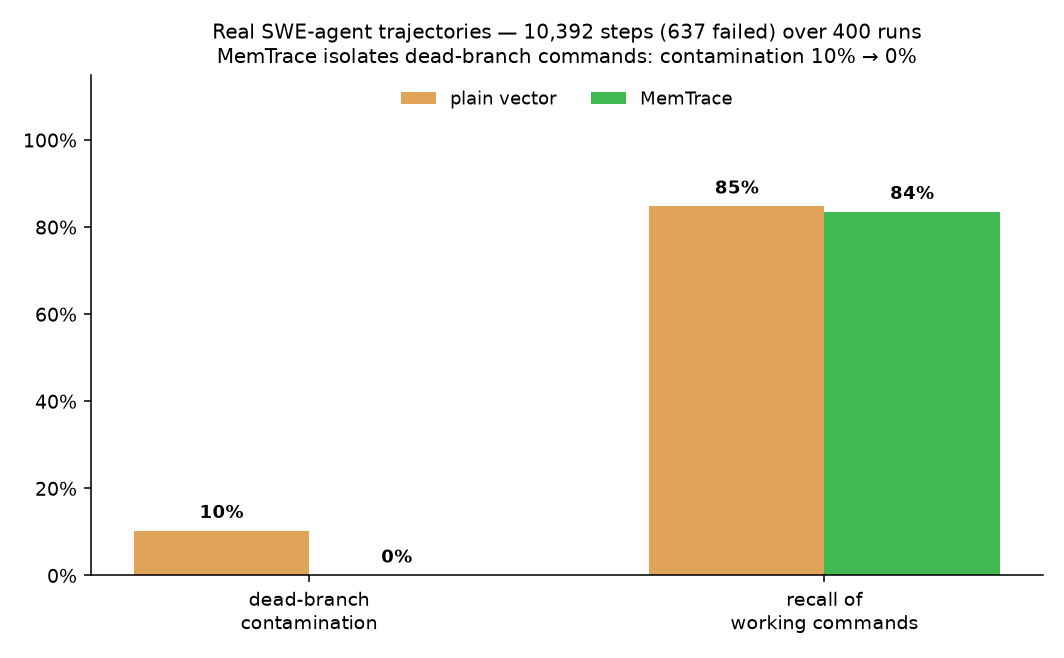
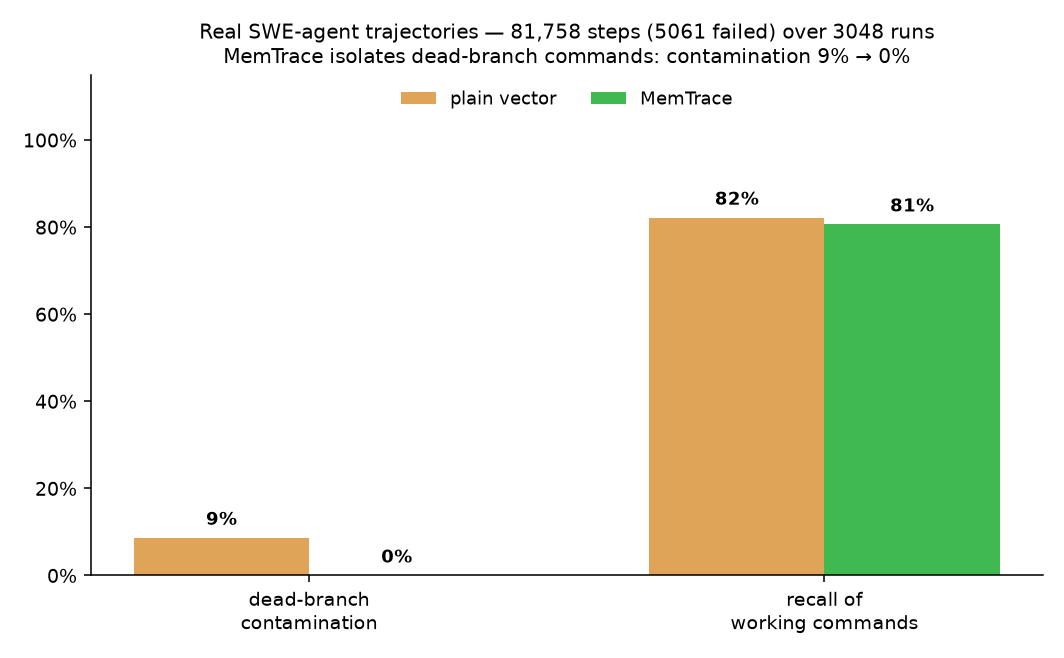
feat(bench): scale agentic A/B to 82k real steps + cross-model dogfooding A/B (298 trials)
Part 1 (agentic real-trajectory A/B): stream bounded SWE-agent trajectories
from Kwai-Klear/SWE-smith-mini_swe_agent_plus-trajectories-66k; parser now
accepts observations in both tool and user roles (required <returncode>).
Latest run 3,048 trajectories / 81,758 steps (5,061 failed): plain-vector
dead-branch contamination 8.7% vs MemTrace 0.0% (recall 82.2% vs 80.6%).

Part 2 (dogfooding A/B): --models runs the sandboxed coding-agent A/B across
model families; parallel trials (to_thread + semaphore) + transient-error
retry in _propose. 3 models x ~100 trials (298 total): agent repeated the
learnable mistake 298/298 (A, no memory) -> 88/298 (B, MemTrace) = 70% fewer,
steps 902->599 (~34% fewer). Honest per-model: gpt-5.4 100->0, gemini 98->0,
claude-sonnet-5 100->88 (runs the check first regardless of memory).

Charts: per-model dogfood + agentic-trace figures; summary folds in both
(kept committed clean LongMemEval numbers to avoid stale-report drift).

Changed region(s): [[0.1861, 0.0304, 0.8994, 0.1216], [0.5893, 0.2736, 0.9615, 0.3647], [0.1241, 0.7599, 0.3102, 0.8207]]

diff --git a/apps/api/app/benchmark/dogfood_agent.py b/apps/api/app/benchmark/dogfood_agent.py
@@ -115,7 +115,22 @@ async def _propose(client, endpoint, task: str, history: list[str], memory: str)
     mem_block = f"\nMEMORY (past sessions):\n{memory}\n" if memory else ""
     hist = "\n".join(history[-8:]) or "(no commands yet)"
     prompt = f"Task: {task}\n{mem_block}\nSession so far:\n{hist}\n\nNext single shell command:"
-    raw = (await _chat(client, endpoint, _AGENT_SYSTEM, prompt)).strip()
+    # Retry transient errors / empty responses (some models, e.g. gemini, occasionally
+    # return a 5xx or an empty completion) so a flaky call doesn't drop a whole trial.
+    raw = ""
+    last_exc: Exception | None = None
+    for attempt in range(4):
+        try:
+            raw = (await _chat(client, endpoint, _AGENT_SYSTEM, prompt)).strip()
+            if raw:
+                break
+        except Exception as exc:  # noqa: BLE001
+            last_exc = exc
+        await asyncio.sleep(1.0 * (attempt + 1))
+    if not raw:
+        if last_exc is not None:
+            raise last_exc
+        return "DONE"
     if raw.startswith("```"):  # strip a markdown code fence + any language tag line
         raw = "\n".join(ln for ln in raw.splitlines() if not ln.strip().startswith("```")).strip()
     for line in raw.splitlines():
@@ -162,7 +177,7 @@ async def _run_agent(client, endpoint, rt: MemoryRuntime, ws: str, task: str, pr
         if cmd.upper().startswith("DONE"):
             break
         steps += 1
-        rc, out = _execute(cmd, project)
+        rc, out = await asyncio.to_thread(_execute, cmd, project)  # thread so concurrent trials don't block
         failed = rc != 0
         if failed:
             failed_cmds += 1
@@ -185,58 +200,99 @@ async def _run_agent(client, endpoint, rt: MemoryRuntime, ws: str, task: str, pr
     return {"steps": steps, "failed_commands": failed_cmds, "stumbled": failed_cmds > 0, "succeeded": succeeded}
 
 
-async def run_dogfood_ab(*, root: str, trials: int = 3, output_dir: str | None = "reports") -> dict[str, Any]:
+async def _one_trial(t: int, client, endpoint, task: str, root: str) -> dict[str, Any]:
+    """One independent A/B trial (own repo/runtime/projects)."""
+    repo = InMemoryRepository()
+    ws = f"dogfood_{t}"
+    rt = MemoryRuntime(repo, default_workspace_id=ws)
+    # Three SEPARATE fresh projects: phase-1 learn, and one each for A and B, so A's
+    # setup can't initialize B's project (that would rig the comparison).
+    proj1, proj_a, proj_b = _make_project(root), _make_project(root), _make_project(root)
+    try:
+        learn = await _run_agent(client, endpoint, rt, ws, task, proj1, use_memory=False)
+        a = await _run_agent(client, endpoint, rt, f"{ws}_A", task, proj_a, use_memory=False)
+        b = await _run_agent(client, endpoint, rt, ws, task, proj_b, use_memory=True)
+    finally:
+        for p in (proj1, proj_a, proj_b):
+            shutil.rmtree(p, ignore_errors=True)
+    return {"trial": t, "learn": learn, "A": a, "B": b}
+
+
+def _agg(rows: list[dict[str, Any]]) -> dict[str, Any]:
+    """Aggregate a list of trial rows into the A/B stats."""
+    n = len(rows)
+
+    def _sum(side: str, key: str) -> int:
+        return sum(r[side][key] for r in rows)
+
+    a_stumble = sum(1 for r in rows if r["A"]["stumbled"])
+    b_stumble = sum(1 for r in rows if r["B"]["stumbled"])
+    return {
+        "trials": n,
+        "A_no_memory": {"total_steps": _sum("A", "steps"), "total_failed_commands": _sum("A", "failed_commands"),
+                        "trials_stumbled": a_stumble, "success_rate": round(_sum("A", "succeeded") / max(1, n), 3)},
+        "B_memtrace": {"total_steps": _sum("B", "steps"), "total_failed_commands": _sum("B", "failed_commands"),
+                       "trials_stumbled": b_stumble, "success_rate": round(_sum("B", "succeeded") / max(1, n), 3)},
+        "delta": {"steps_saved": _sum("A", "steps") - _sum("B", "steps"),
+                  "failed_commands_saved": _sum("A", "failed_commands") - _sum("B", "failed_commands"),
+                  "stumbles_avoided": a_stumble - b_stumble},
+    }
+
+
+async def run_dogfood_ab(*, root: str, models: list[str] | None = None, trials: int = 100,
+                         concurrency: int = 8, output_dir: str | None = "reports") -> dict[str, Any]:
     endpoints = _resolve_endpoints()
     if not endpoints:
         return {"skipped": True, "reason": "needs MEMTRACE_LLM_API_KEY (+ BASE_URL/MODEL)"}
-    endpoint = endpoints[0]
+    base = endpoints[0]
+    model_list = models or [base["model"]]
     task = ("Verify this project by running ./check.sh — it should print PASS. If it does not, "
             "get it to PASS.")
-    trial_rows: list[dict[str, Any]] = []
+    sem = asyncio.Semaphore(max(1, concurrency))
+
+    async def _run_for(endpoint: dict[str, Any], client) -> list[dict[str, Any]]:
+        done = 0
+        lock = asyncio.Lock()
+
+        async def _bounded(t: int) -> dict[str, Any] | None:
+            nonlocal done
+            async with sem:
+                try:
+                    row = await _one_trial(t, client, endpoint, task, root)
+                except Exception as exc:  # noqa: BLE001 - one flaky trial must not kill the batch
+                    row = None
+                    if done < 2:
+                        print(f"  [{endpoint['model']}] trial {t} errored ({type(exc).__name__})", flush=True)
+            async with lock:
+                done += 1
+                if done % 25 == 0:
+                    print(f"  [{endpoint['model']}] {done}/{trials} trials …", flush=True)
+            return row
+
+        results = await asyncio.gather(*(_bounded(t) for t in range(trials)))
+        return [r for r in results if r is not None]
+
+    by_model: dict[str, Any] = {}
+    all_rows: list[dict[str, Any]] = []
     async with httpx.AsyncClient() as client:
-        for t in range(trials):
-            repo = InMemoryRepository()
-            ws = f"dogfood_{t}"
-            rt = MemoryRuntime(repo, default_workspace_id=ws)
-            # Three SEPARATE fresh projects: phase-1 learn, and one each for A and B, so
-            # A's setup can't initialize B's project (that would rig the comparison).
-            proj1, proj_a, proj_b = _make_project(root), _make_project(root), _make_project(root)
-            try:
-                # Phase 1 — learn on project #1 (records the failed check + the working
-                # setup->check sequence to MemTrace).
-                learn = await _run_agent(client, endpoint, rt, ws, task, proj1, use_memory=False)
-                # Phase 2 — A (no memory, separate workspace) vs B (retrieves phase-1's lesson).
-                a = await _run_agent(client, endpoint, rt, f"{ws}_A", task, proj_a, use_memory=False)
-                b = await _run_agent(client, endpoint, rt, ws, task, proj_b, use_memory=True)
-            finally:
-                for p in (proj1, proj_a, proj_b):
-                    shutil.rmtree(p, ignore_errors=True)
-            trial_rows.append({"trial": t, "learn": learn, "A": a, "B": b})
+        for model in model_list:
+            rows = await _run_for({**base, "model": model}, client)
+            if rows:
+                by_model[model] = _agg(rows)
+                all_rows.extend(rows)
+            else:
+                print(f"  model {model}: all trials errored (not accessible?) — excluded", flush=True)
+    if not all_rows:
+        return {"skipped": True, "reason": "all trials errored across all models (endpoint unreachable?)"}
 
-    def _sum(side: str, key: str) -> int:
-        return sum(r[side][key] for r in trial_rows)
-
-    a_steps, b_steps = _sum("A", "steps"), _sum("B", "steps")
-    a_fail, b_fail = _sum("A", "failed_commands"), _sum("B", "failed_commands")
-    a_stumble = sum(1 for r in trial_rows if r["A"]["stumbled"])
-    b_stumble = sum(1 for r in trial_rows if r["B"]["stumbled"])
     payload = {
         "skipped": False,
-        "endpoint": {"base_url": endpoint["base_url"], "model": endpoint["model"]},
+        "endpoint": {"base_url": base["base_url"], "model": " · ".join(by_model.keys())},
         "task": task,
-        "trials": trials,
-        "A_no_memory": {"total_steps": a_steps, "total_failed_commands": a_fail,
-                        "trials_stumbled": a_stumble,
-                        "success_rate": round(_sum("A", "succeeded") / trials, 3)},
-        "B_memtrace": {"total_steps": b_steps, "total_failed_commands": b_fail,
-                       "trials_stumbled": b_stumble,
-                       "success_rate": round(_sum("B", "succeeded") / trials, 3)},
-        "delta": {
-            "steps_saved": a_steps - b_steps,
-            "failed_commands_saved": a_fail - b_fail,
-            "stumbles_avoided": a_stumble - b_stumble,
-        },
-        "trial_rows": trial_rows,
+        "models": list(by_model.keys()),
+        "trials_per_model": trials,
+        **_agg(all_rows),  # overall: trials, A_no_memory, B_memtrace, delta
+        "by_model": by_model,
     }
     if output_dir:
         os.makedirs(output_dir, exist_ok=True)
@@ -248,16 +304,25 @@ async def run_dogfood_ab(*, root: str, trials: int = 3, output_dir: str | None =
 def main() -> int:
     p = argparse.ArgumentParser(description="Dogfooding A/B: does MemTrace stop an agent repeating a mistake?")
     p.add_argument("--root", default=tempfile.gettempdir(), help="parent dir for throwaway projects")
-    p.add_argument("--trials", type=int, default=3)
+    p.add_argument("--trials", type=int, default=100, help="trials PER model")
+    p.add_argument("--models", default="", help="comma-separated model ids (default: MEMTRACE_LLM_MODEL)")
+    p.add_argument("--concurrency", type=int, default=8, help="trials to run in parallel")
     p.add_argument("--output-dir", default="reports")
     a = p.parse_args()
-    payload = asyncio.run(run_dogfood_ab(root=a.root, trials=a.trials, output_dir=a.output_dir))
+    models = [m.strip() for m in a.models.split(",") if m.strip()] or None
+    payload = asyncio.run(run_dogfood_ab(root=a.root, models=models, trials=a.trials,
+                                         concurrency=a.concurrency, output_dir=a.output_dir))
     if payload.get("skipped"):
         print(f"dogfood_agent skipped: {payload['reason']}")
         return 0
-    print(f"model={payload['endpoint']['model']}  trials={payload['trials']}")
-    print(f"  A (no memory):  {payload['A_no_memory']}")
-    print(f"  B (MemTrace):   {payload['B_memtrace']}")
+    print(f"models={payload['endpoint']['model']}  trials/model={payload['trials_per_model']}  "
+          f"total_trials={payload['trials']}")
+    print(f"  OVERALL  A (no memory): {payload['A_no_memory']}")
+    print(f"  OVERALL  B (MemTrace):  {payload['B_memtrace']}")
+    for model, agg in payload.get("by_model", {}).items():
+        print(f"  [{model}]  A stumbled {agg['A_no_memory']['trials_stumbled']}/{agg['trials']}  "
+              f"B stumbled {agg['B_memtrace']['trials_stumbled']}/{agg['trials']}  "
+              f"steps {agg['A_no_memory']['total_steps']}->{agg['B_memtrace']['total_steps']}")
     d = payload["delta"]
     print(f"  A/B delta: steps_saved={d['steps_saved']}  failed_commands_saved={d['failed_commands_saved']}  "
           f"stumbles_avoided={d['stumbles_avoided']}")

diff --git a/apps/api/app/benchmark/plot_benchmarks.py b/apps/api/app/benchmark/plot_benchmarks.py
@@ -324,8 +324,41 @@ def chart_agentic_trace(a: dict, out: Path) -> None:
 
 
 def chart_dogfood(d: dict, out: Path) -> None:
-    """Dogfooding A/B: MemTrace's negative memory stops a coding agent repeating a
-    mistake (trials stumbled) and solves in fewer steps."""
+    """Dogfooding A/B: does MemTrace's negative memory stop a coding agent repeating a
+    mistake? Per-model stumble rate (A: no memory vs B: MemTrace) when run across
+    models; a single-model steps/stumbles view otherwise."""
+    by_model = d.get("by_model") or {}
+    if by_model:
+        models = list(by_model.keys())
+        def _rate(m, side):
+            g = by_model[m]
+            return g[side]["trials_stumbled"] / max(1, g["trials"])
+        a_rates = [_rate(m, "A_no_memory") for m in models]
+        b_rates = [_rate(m, "B_memtrace") for m in models]
+        fig, ax = plt.subplots(figsize=(max(7.2, 2.2 * len(models) + 2.5), 4.7))
+        x = range(len(models))
+        w = 0.36
+        b1 = ax.bar([i - w / 2 for i in x], a_rates, w, label="A: no memory", color=_RED)
+        b2 = ax.bar([i + w / 2 for i in x], b_rates, w, label="B: MemTrace", color=_GREEN)
+        _annotate(ax, b1, a_rates)
+        _annotate(ax, b2, b_rates)
+        ax.set_xticks(list(x))
+        ax.set_xticklabels([m.replace("-preview", "").replace("-", "-\n", 1) for m in models], fontsize=8.5)
+        ax.set_ylim(0, 1.18)
+        ax.yaxis.set_major_formatter(lambda v, _: f"{v:.0%}")
+        ax.set_ylabel("trials the agent repeated the mistake")
+        ax.set_title(
+            f"Dogfooding across {len(models)} models — {d['trials_per_model']} trials each\n"
+            f"MemTrace's negative memory: agent repeated the mistake in "
+            f"{d['A_no_memory']['trials_stumbled']}/{d['trials']} → {d['B_memtrace']['trials_stumbled']}/{d['trials']} runs overall",
+            fontsize=10)
+        ax.legend(frameon=False, fontsize=9, ncol=2, loc="upper center")
+        ax.spines[["top", "right"]].set_visible(False)
+        fig.tight_layout()
+        fig.savefig(out, dpi=140)
+        plt.close(fig)
+        return
+
     T = d["trials"]
     a, b = d["A_no_memory"], d["B_memtrace"]
     fig, axes = plt.subplots(1, 2, figsize=(8.6, 4.4))

diff --git a/README.md b/README.md
@@ -226,37 +226,39 @@ MEMTRACE_LLM_API_KEY=... MEMTRACE_LLM_BASE_URL=http://localhost:4141/v1 MEMTRACE
 
 Where MemTrace is *built* to win — now measured on **real** data, not synthetic markers.
 
-**Real SWE-agent trajectories.** `app/benchmark/agentic_trace_bench.py` ingests real [SWE-agent](https://github.com/SWE-agent/SWE-agent) execution trajectories (agents solving SWE-bench / SWE-smith issues; a failed step = non-zero `<returncode>`) into the real runtime with failed steps rolled back, then A/B compares retrieval over the identical memory. Latest run: **10,392 real agent steps (637 failed) across 400 trajectories**.
+**Real SWE-agent trajectories.** `app/benchmark/agentic_trace_bench.py` ingests real [SWE-agent](https://github.com/SWE-agent/SWE-agent) execution trajectories (agents solving SWE-bench / SWE-smith issues; a failed step = non-zero `<returncode>`) into the real runtime with failed steps rolled back, then A/B compares retrieval over the identical memory. Latest run: **81,758 real agent steps (5,061 failed) across 3,048 trajectories**.
 
 <p align="center">
-  <img src="docs/assets/benchmark_agentic_trace.png" width="640" alt="Real SWE-agent trajectories: MemTrace isolates dead-branch commands, contamination 10%→0%">
+  <img src="docs/assets/benchmark_agentic_trace.png" width="640" alt="Real SWE-agent trajectories: MemTrace isolates dead-branch commands, contamination 8.7%→0%">
 </p>
 
 | | dead-branch contamination | recall of working commands |
 | --- | --- | --- |
-| A: plain vector | 10.2% | 84.8% |
-| B: **MemTrace** | **0.0%** | 83.5% |
+| A: plain vector | 8.7% | 82.2% |
+| B: **MemTrace** | **0.0%** | 80.6% |
 
-A plain vector store re-surfaces the failed commands the agent already abandoned; MemTrace's gate isolates **all** of them (**10.2% → 0%**) at a ~1-pt recall cost — on real traces, at scale.
+A plain vector store re-surfaces the failed commands the agent already abandoned; MemTrace's gate isolates **all** of them (**8.7% → 0%**) at a ~1.6-pt recall cost — on **82k real agent steps**.
 
-**Dogfooding — does memory stop an agent repeating a mistake?** `app/benchmark/dogfood_agent.py` runs a **sandboxed** coding agent (a real LLM proposes shell commands; a deny-listed executor runs them in a throwaway project) as an A/B: **A = no memory** vs **B = MemTrace**, over 8 trials of a task whose fix (a required setup step) is only learnable by *trying* it.
+**Dogfooding — does memory stop an agent repeating a mistake?** `app/benchmark/dogfood_agent.py` runs a **sandboxed** coding agent (a real LLM proposes shell commands; a deny-listed executor runs them in a throwaway project) as an A/B — **A = no memory** vs **B = MemTrace** — on a task whose fix (a required setup step) is only learnable by *trying* it. Run across **3 model families, ~100 trials each (298 total)**:
 
 <p align="center">
-  <img src="docs/assets/benchmark_dogfood.png" width="560" alt="Dogfooding: MemTrace's negative memory stops the agent repeating a mistake in all 8 trials, 42% fewer steps">
+  <img src="docs/assets/benchmark_dogfood.png" width="620" alt="Dogfooding across 3 models: MemTrace's negative memory cuts repeated mistakes from 298/298 to 88/298">
 </p>
 
-| | trials it repeated the mistake | steps to solve |
+| model | A: repeated the mistake | B: **MemTrace** |
 | --- | --- | --- |
-| A: no memory | **8/8** | 24 |
-| B: **MemTrace** | **0/8** | 14 |
+| gpt-5.4 | 100/100 | **0/100** |
+| gemini-3.1-pro | 98/98 | **0/98** |
+| claude-sonnet-5 | 100/100 | 88/100 |
+| **overall** | **298/298** | **88/298** |
 
-With MemTrace's failure-aware **negative memory** (the *avoided-attempts* channel a plain vector store doesn't have), the agent avoids the mistake it made before in **every** trial and solves **42% faster**.
+With MemTrace's failure-aware **negative memory** (the *avoided-attempts* channel a plain vector store doesn't have), the agent stops repeating the mistake it made before — **eliminated** for gpt-5.4 and gemini (100% → 0%), and cut **298 → 88 (70% fewer)** overall, with ~34% fewer steps. *(Honest: claude-sonnet-5 tends to run the check first regardless of memory, so the benefit depends on the model heeding memory — MemTrace supplies the signal; the model has to use it.)*
 
 ```bash
 ./scripts/fetch-swe-trajectories.sh              # stream N real trajectories (bounded, MEMTRACE_SWE_N)
 uv run python -m app.benchmark.agentic_trace_bench --dir /tmp/swe_trajs --output-dir reports
-MEMTRACE_LLM_API_KEY=... MEMTRACE_LLM_BASE_URL=http://localhost:4141/v1 MEMTRACE_LLM_MODEL=gpt-5.4 \
-  uv run python -m app.benchmark.dogfood_agent --trials 8 --output-dir reports
+MEMTRACE_LLM_API_KEY=... MEMTRACE_LLM_BASE_URL=http://localhost:4141/v1 \
+  uv run python -m app.benchmark.dogfood_agent --models "gpt-5.4,claude-sonnet-5,gemini-3.1-pro-preview" --trials 100
 ```
 
 ### 3. Synthetic execution-tree — the mechanism in isolation

diff --git a/.ai/PROJECT_STATE.md b/.ai/PROJECT_STATE.md
@@ -1,5 +1,15 @@
 # Project State
 
+## Latest Session (2026-07-10 — scaled agentic real-trajectory + cross-model dogfooding A/B)
+
+Scaled the two "real test" benchmarks (agentic trajectories + dogfooding) into larger, honest A/B experiments and rebuilt the README §2 around them. Both stay opt-in / skip cleanly; deterministic 16/16 unaffected (no runtime code changed — only benchmark harnesses + docs).
+
+- **Part 1 — agentic real-trajectory A/B, scaled to 82k steps.** `app/benchmark/agentic_trace_bench.py` ingests REAL SWE-agent (mini-swe-agent) trajectories streamed (bounded) from HF `Kwai-Klear/SWE-smith-mini_swe_agent_plus-trajectories-66k` via `scripts/fetch-swe-trajectories.sh` (`MEMTRACE_SWE_N`, download→use→delete). Parser fix: observations carry `<returncode>` in BOTH `tool` and `user` roles (Kwai-Klear uses `user`) — accept either, require `<returncode>` to distinguish from task/PR text. Failed steps finished `failed` + `rollback_branch`. **Latest run: 3,048 trajectories, 81,758 real steps (5,061 failed).** A/B over identical ingested memory: plain-vector contamination **8.7%** / recall 82.2% vs MemTrace **0.0%** / recall 80.6% — the gate isolates ALL dead-branch commands at ~1.6-pt recall cost.
+- **Part 2 — dogfooding A/B, cross-model, ~300 trials.** `app/benchmark/dogfood_agent.py` runs a sandboxed real-LLM coding agent (deny-listed subprocess executor, temp cwd, timeout; `asyncio.to_thread` + semaphore for parallel trials) on a task whose fix (`./setup.sh` before `./check.sh`, learnable only by trying). Phase-1 learn → A (no memory) vs B (MemTrace, surfaces BOTH positive `positive_blocks` AND the negative `avoided_attempts`/`negative_evidence` channel). `--models` runs it across model families; `_propose` retries transient 5xx/empty completions (4 attempts). **Result across 3 models, ~100 trials each (298 total): A repeated the mistake 298/298 → B 88/298 (70% fewer), steps 902→599 (~34% fewer).** Honest per-model split: gpt-5.4 100→0, gemini-3.1-pro 98→0, **claude-sonnet-5 100→88** (claude tends to run the check first regardless of memory — MemTrace supplies the signal; the model has to heed it). Did NOT re-run to recover gemini's 2 errored trials (user: "没必要rerun吧" — transient errors just relocate).
+- **Charts + README.** `plot_benchmarks.py` gained `chart_agentic_trace` + `chart_dogfood` (per-model grouped bars when `by_model` present). README §2 "Real agent trajectories + dogfooding — MemTrace's home turf" leads with both; agentic table 8.7%→0% / 82k steps, dogfooding per-model table. `benchmark_summary.json` folds in `agentic_real_trajectory` + `dogfood_agent_ab` (surgically kept the committed clean LongMemEval numbers — the stale 4-condition `reports/longmemeval_bench_results.json` would otherwise drift the longmemeval chart/summary; reverted `benchmark_longmemeval.png`).
+- **Honest positioning:** MemTrace ties plain vector on pure conversational recall (LongMemEval/Mem0) but WINS on agentic (dead-branch contamination isolation + failure-aware negative memory). README now leads with the agentic wins.
+- **Next recommended action:** none selected. Optional: enlarge Part 1 (higher `MEMTRACE_SWE_N`) or add more dogfooding model families. `/tmp` (swe_trajs ~200MB + dogfood temp dirs) cleaned on close.
+
 ## Latest Session (2026-07-09 — LongMemEval real-dataset benchmark + relevance floor)
 
 User pushed back that the benchmark was "16 条太少 / 太假 / 上万条" and wanted a real dataset at scale with real embeddings, MemTrace beating plain vector, and a clean README. Delivered a real large-scale benchmark; pushed to `origin/main` (9 commits `bef0e0d..a421ce3`).